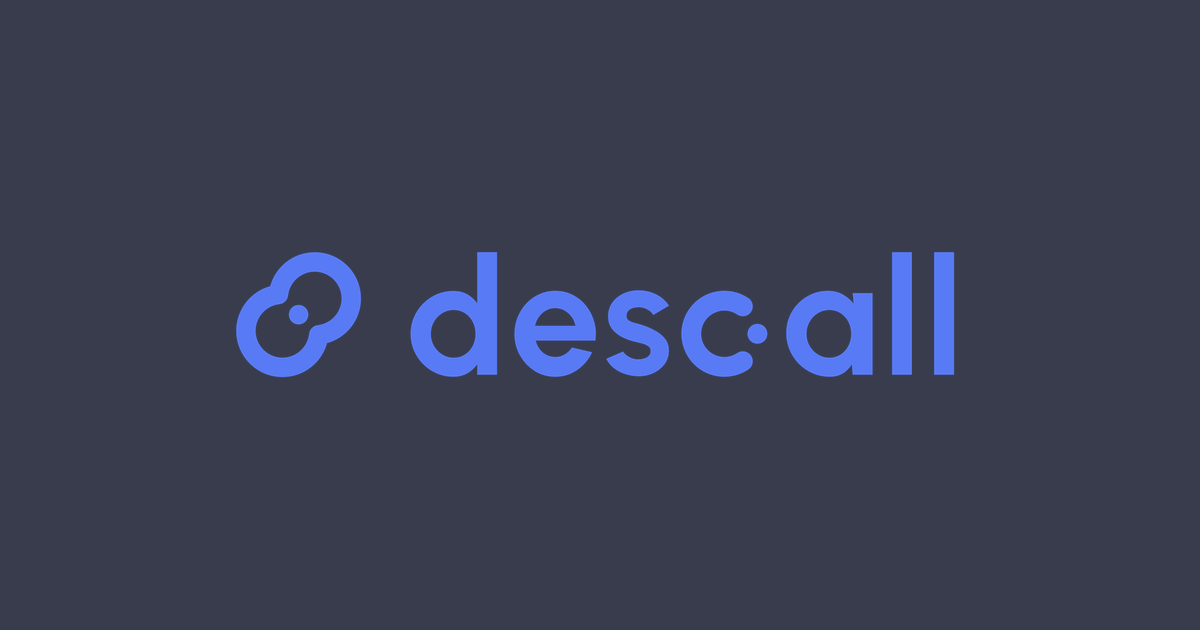
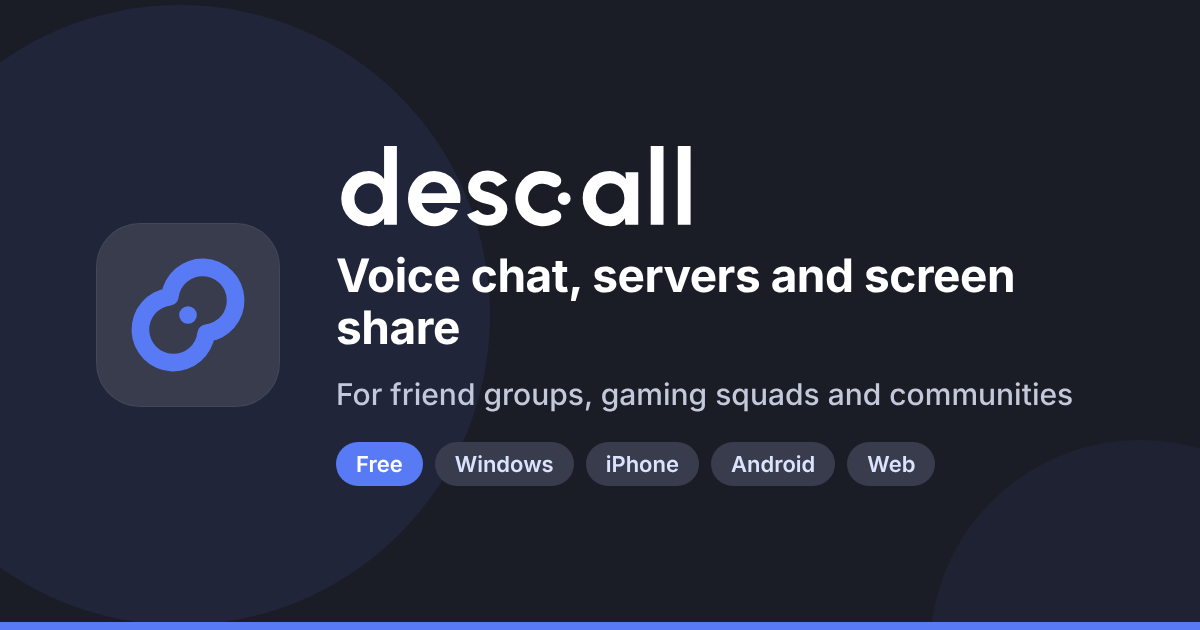
SEO: social images per language, led by the Descall name
og-discord.png said "Discord alternative" in large letters and every
localized page and Article shared one English image. A committed generator
(scripts/generate-og-images.mjs) renders 1200x630 PNGs from an HTML template
with Playwright Chromium in the brand colors and the Descall mark and
wordmark: a default for each of the 7 site languages and a new
og-discord.png with no competitor name, each 62-71 KB.

src/site/ogImages.js picks the image: pages without one and localized pages
whose image has English words get their language default; the prerender,
SeoHead and Article JSON-LD all use it. og:image:alt is the page title, not
"Discord alternative". ogImages.selftest.mjs checks the mapping and that each
PNG is 1200x630 and at most 120 KB.

Claude-Session: https://claude.ai/code/session_016gMrsdLKA7sFZHPfPUvafD

diff --git a/frontend/src/site/ogImages.js b/frontend/src/site/ogImages.js
@@ -1,0 +1,58 @@
+/**
+ * Social preview images (og:image, twitter:image, Article.image).
+ *
+ * Every site language has its own default image with its own text; pages that set no
+ * image, and localized pages whose English image carries English words (Features,
+ * Download, ...), use the default of their language. English pages keep their page image.
+ * The PNGs are rendered by scripts/generate-og-images.mjs and committed in public/.
+ * No competitor names in the images.
+ */
+
+export const DEFAULT_OG_IMAGE_EN = "/og-default.png";
+
+/** Image file per site locale id. The text drawn in each image lives in scripts/generate-og-images.mjs. */
+export const OG_DEFAULT_IMAGES = {
+  en: DEFAULT_OG_IMAGE_EN,
+  tr: "/og-default-tr.png",
+  de: "/og-default-de.png",
+  es: "/og-default-es.png",
+  fr: "/og-default-fr.png",
+  "pt-BR": "/og-default-pt-br.png",
+  ru: "/og-default-ru.png",
+};
+
+/** Comparison and niche pages (English): led by the Descall name, no competitor name. */
+export const OG_DISCORD_IMAGE = "/og-discord.png";
+
+/** English images whose text is English words; localized pages use their own default. */
+const ENGLISH_TEXT_IMAGES = new Set([
+  OG_DISCORD_IMAGE,
+  "/og-download.png",
+  "/og-features.png",
+  "/og-privacy.png",
+  "/og-terms.png",
+  "/og-about.png",
+  "/og-contact.png",
+]);
+
+function localeKey(locale) {
+  const raw = String(locale || "en");
+  if (OG_DEFAULT_IMAGES[raw]) return raw;
+  const lower = raw.toLowerCase();
+  if (lower === "pt-br" || lower === "pt") return "pt-BR";
+  const base = lower.split("-")[0];
+  return OG_DEFAULT_IMAGES[base] ? base : "en";
+}
+
+/** Default image path of a site language ("/og-default-tr.png"); English for unknown ids. */
+export function defaultOgImage(locale) {
+  return OG_DEFAULT_IMAGES[localeKey(locale)];
+}
+
+/** The image a page in `locale` should use, given the image its route asks for (may be empty). */
+export function ogImageFor(image, locale) {
+  const key = localeKey(locale);
+  if (!image || image === DEFAULT_OG_IMAGE_EN) return OG_DEFAULT_IMAGES[key];
+  if (key !== "en" && ENGLISH_TEXT_IMAGES.has(image)) return OG_DEFAULT_IMAGES[key];
+  return image;
+}

diff --git a/frontend/src/site/SeoHead.jsx b/frontend/src/site/SeoHead.jsx
@@ -4,7 +4,6 @@ import {
   absoluteUrl,
   routeMetaForLocale,
   SITE_NAME,
-  DEFAULT_OG_IMAGE,
   DEFAULT_ORIGIN,
 } from "./seoConfig";
 import { useLocale } from "../context/localeContextInstance";
@@ -14,6 +13,7 @@ import {
   stripLocalePrefix,
 } from "./localePaths";
 import { ogLocaleTag } from "./siteLocales.js";
+import { ogImageFor } from "./ogImages.js";
 import { SITE_OPERATOR } from "./siteIdentity";
 
 function upsertMeta(attr, key, content) {
@@ -70,8 +70,8 @@ export default function SeoHead({ forceNoindex = false, title, description, path
         : pathname;
   const pageLocale = meta.locale || (tr ? "tr" : "en");
   const canonical = absoluteUrl(canonicalPath === "/tr" ? "/tr" : canonicalPath);
-  // Social crawlers prefer PNG; on-page can still preload webp.
-  const ogImage = absoluteUrl(image || meta.image || DEFAULT_OG_IMAGE);
+  // PNG for social crawlers; each language has its own default image (ogImages.js).
+  const ogImage = absoluteUrl(ogImageFor(image || meta.image, pageLocale));
 
   useEffect(() => {
     document.title = pageTitle;
@@ -120,7 +120,7 @@ export default function SeoHead({ forceNoindex = false, title, description, path
     upsertMeta("property", "og:image:type", "image/png");
     upsertMeta("property", "og:image:width", "1200");
     upsertMeta("property", "og:image:height", "630");
-    upsertMeta("property", "og:image:alt", `${SITE_NAME}, Discord alternative`);
+    upsertMeta("property", "og:image:alt", pageTitle);
     // Hint for clients that understand webp (not all social crawlers).
     upsertMeta("property", "og:image:secure_url", ogImage);
 

diff --git a/frontend/src/site/jsonLdBuilders.js b/frontend/src/site/jsonLdBuilders.js
@@ -3,6 +3,7 @@ import { organizationLogoLd } from "./siteIcons.js";
 import { SITE_OPERATOR } from "./siteIdentity.js";
 import { SITE_LOCALES } from "./siteLocales.js";
 import { APP_STORE_URL } from "./appStoreLink.js";
+import { ogImageFor } from "./ogImages.js";
 import {
   APP_ID,
   ORG_ID,
@@ -202,7 +203,7 @@ export function buildBreadcrumbLd(crumbs = []) {
   };
 }
 
-export function buildArticleLd({ title, description, path, datePublished, dateModified, inLanguage }) {
+export function buildArticleLd({ title, description, path, datePublished, dateModified, inLanguage, image }) {
   return {
     "@context": "https://schema.org",
     "@type": "Article",
@@ -225,7 +226,7 @@ export function buildArticleLd({ title, description, path, datePublished, dateMo
       logo: organizationLogoLd(absoluteUrl),
     },
     copyrightHolder: { "@id": PERSON_ID },
-    image: [absoluteUrl("/og-default.png")],
+    image: [absoluteUrl(ogImageFor(image, inLanguage))],
   };
 }
 

diff --git a/frontend/index.html b/frontend/index.html
@@ -117,7 +117,7 @@
     <meta property="og:image:type" content="image/png" />
     <meta property="og:image:width" content="1200" />
     <meta property="og:image:height" content="630" />
-    <meta property="og:image:alt" content="Descall, Free Discord alternative" />
+    <meta property="og:image:alt" content="Descall: voice chat, servers and screen share" />
     <meta property="og:locale" content="en_US" />
     <meta name="twitter:card" content="summary_large_image" />
     <meta name="twitter:title" content="Descall | Voice Chat &amp; Screen Share" />
